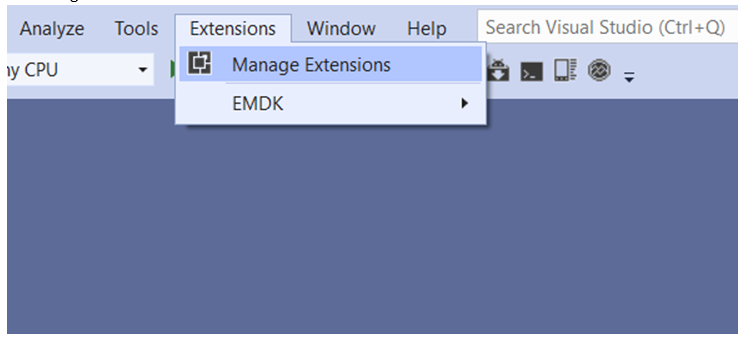
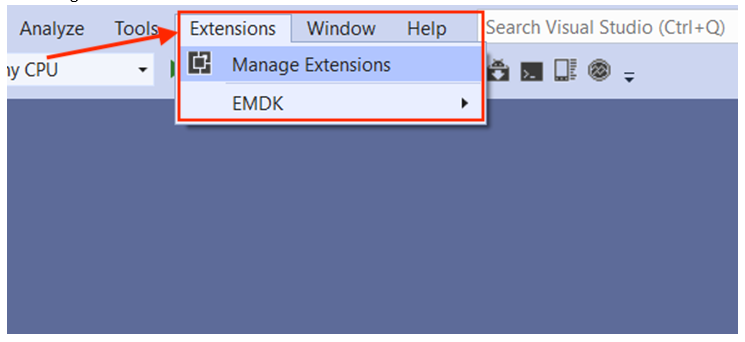
[TUT-34099] EMDK-X 5.0 add VS2019 note & screen tweaks

Changed region(s): [[0.0617, 0.0292, 0.6483, 0.3801]]

diff --git a/src/emdk-for-xamarin/5-0/guide/nuget/index.md b/src/emdk-for-xamarin/5-0/guide/nuget/index.md
@@ -62,12 +62,13 @@ The following instructions apply to Visual Studio 2017. A supported version of V
 	_Click to enlarge; ESC to exit_.<br><br>
 5. Repeat Steps 1&ndash;4 for each project that uses EMDK for Xamarin APIs. 
 
-**Note for Visual Studio 2019 users**: An EMDK submenu is now displayed in the "Extensions" menu.  
+#### The project is ready to use EMDK for Xamarin APIs. 
 
-<img alt="image" style="height:418px" src="emdk-x_5_vs2019.png"/>
-
-
-> The project is ready to use EMDK for Xamarin APIs. 
+#### For Visual Studio 2019 Users:
+In Visual Studio 2019, an EMDK submenu is displayed in the "Extensions" menu simimar to the image below: 
+<img alt="image" style="height:200px" src="emdk-x_5_vs2019.png"/>
+_Click to enlarge; ESC to exit_.
+<br>
 
 -----
 
